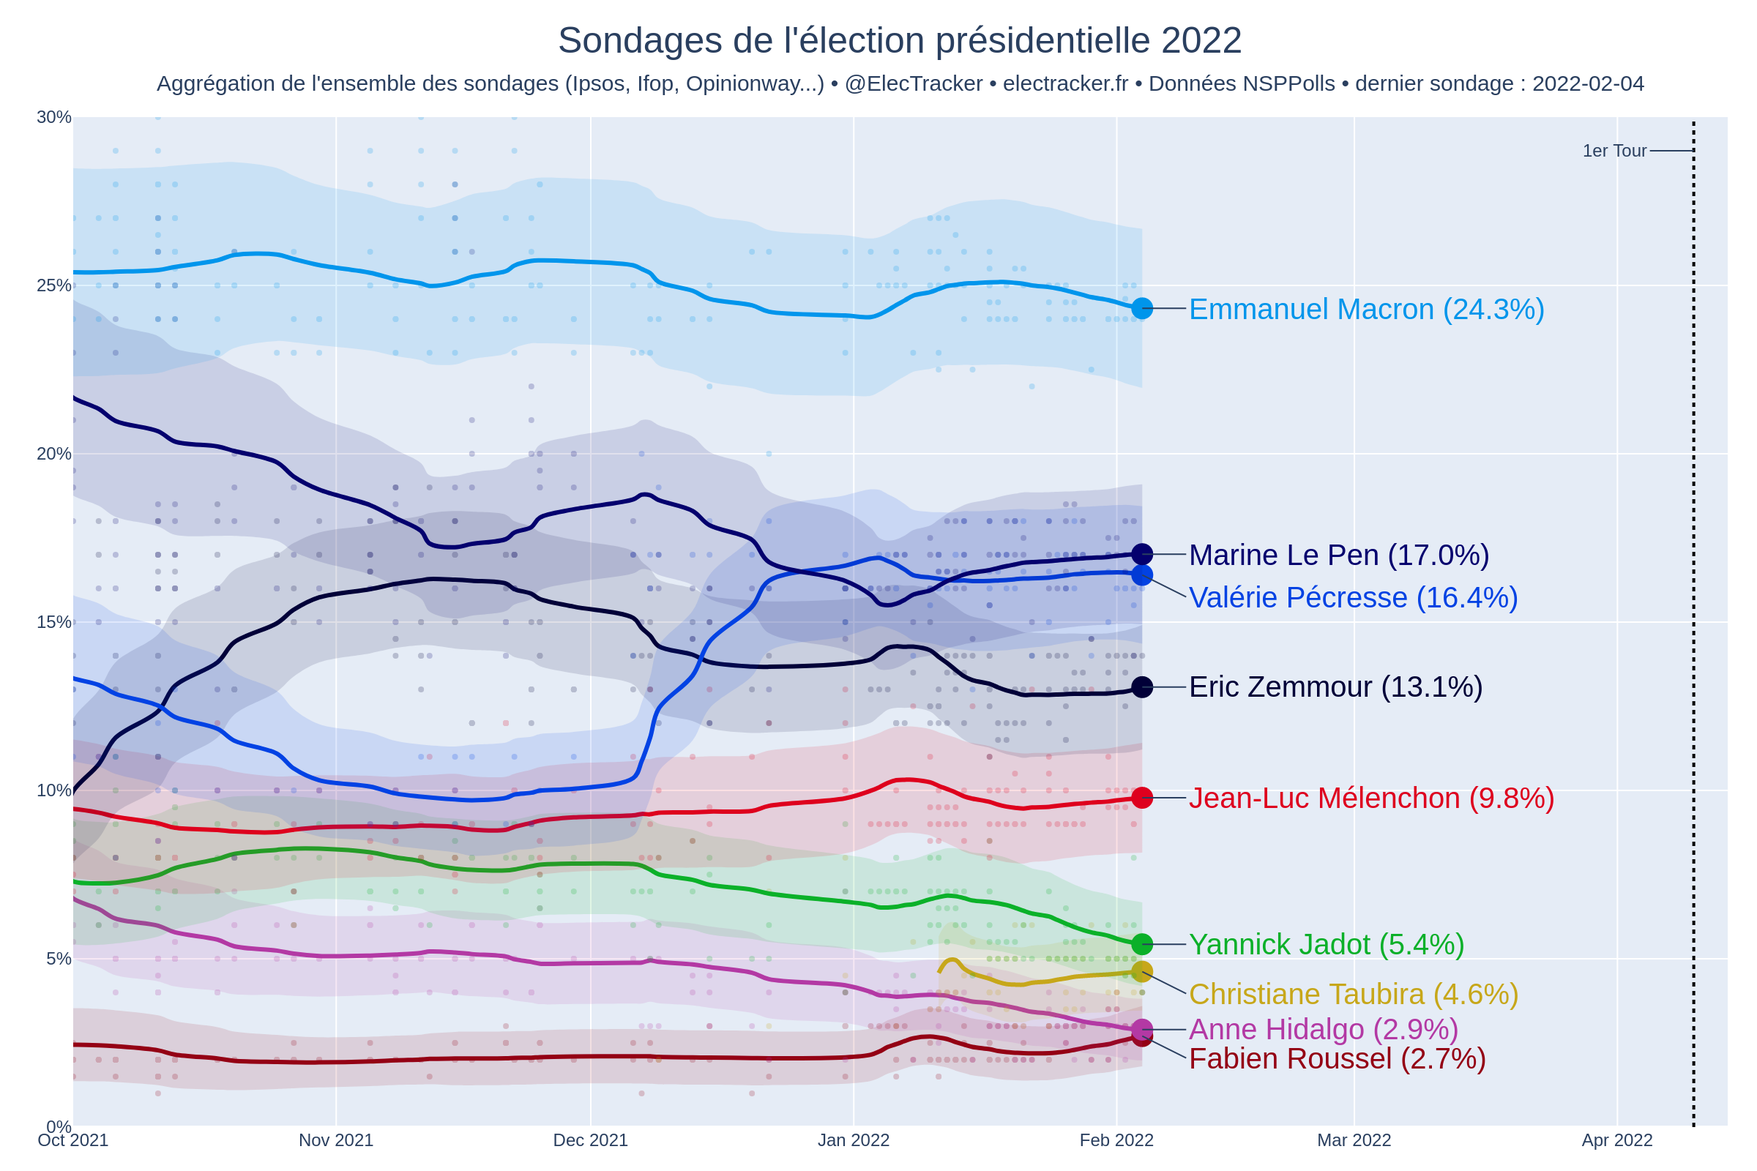
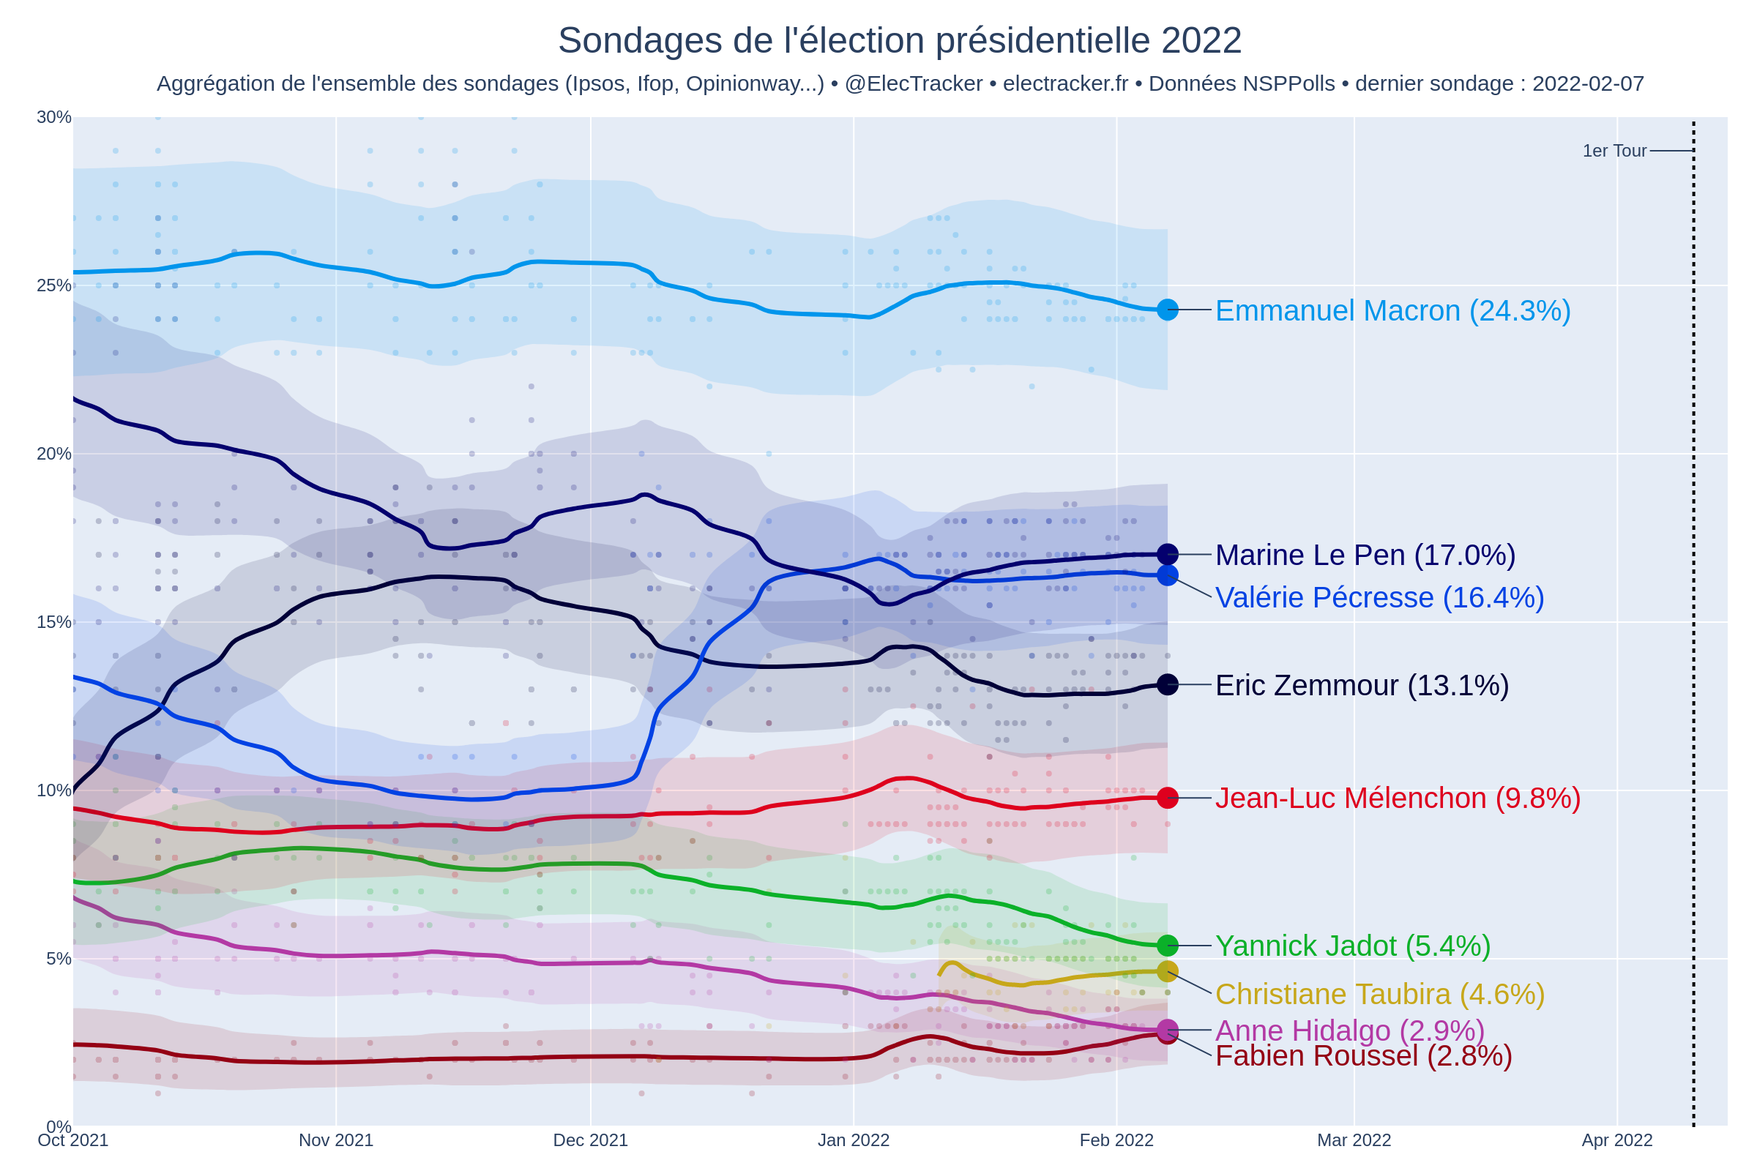
Apply automatic changes

diff --git a/html/derniers_sondages.html b/html/derniers_sondages.html
@@ -1,1 +1,1 @@
-<h3>Fabien Roussel • 2.7%</h3> 4.0% • (intervalle : 3.0% - 5.0%) • Opinion Way Les Echos, Radio Classique, Kea Partners • Du 2022-02-01 au 2022-02-04<br> 3.0% • (intervalle : 1.9% - 4.1%) • Opinion Way CNews • Du 2022-02-02 au 2022-02-03<br> 3.0% • (intervalle : 2.1% - 3.9%) • Opinion Way Les Echos, Radio Classique, Kea Partners • Du 2022-01-31 au 2022-02-03<br> 3.0% • (intervalle : 1.8% - 4.2%) • Ipsos franceinfo, Le Parisien • Du 2022-02-01 au 2022-02-03<br> 3.0% • (intervalle : 2.0% - 4.0%) • Ifop Paris Match, LCI, Sud Radio • Du 2022-01-31 au 2022-02-03<br> 3.0% • (intervalle : 2.1% - 3.9%) • Opinion Way Les Echos, Radio Classique, Kea Partners • Du 2022-01-30 au 2022-02-02<br> 3.0% • (intervalle : 1.9% - 4.1%) • Ifop Paris Match, LCI, Sud Radio • Du 2022-01-31 au 2022-02-02<br> 2.5% • (intervalle : 1.5% - 3.5%) • Elabe L'Express, SFR, BFM TV • Du 2022-01-31 au 2022-02-02<br> 3.5% • (intervalle : 2.4% - 4.6%) • Ifop Paris Match, LCI, Sud Radio • Du 2022-01-29 au 2022-02-01<br> 4.0% • (intervalle : 3.0% - 5.0%) • Opinion Way Les Echos, Radio Classique, Kea Partners • Du 2022-01-29 au 2022-02-01<br><br><h3>Anne Hidalgo • 2.9%</h3> 3.0% • (intervalle : 2.1% - 3.9%) • Opinion Way Les Echos, Radio Classique, Kea Partners • Du 2022-02-01 au 2022-02-04<br> 3.0% • (intervalle : 1.9% - 4.1%) • Opinion Way CNews • Du 2022-02-02 au 2022-02-03<br> 3.0% • (intervalle : 2.1% - 3.9%) • Opinion Way Les Echos, Radio Classique, Kea Partners • Du 2022-01-31 au 2022-02-03<br> 3.0% • (intervalle : 1.8% - 4.2%) • Ipsos franceinfo, Le Parisien • Du 2022-02-01 au 2022-02-03<br> 3.0% • (intervalle : 2.0% - 4.0%) • Ifop Paris Match, LCI, Sud Radio • Du 2022-01-31 au 2022-02-03<br> 3.0% • (intervalle : 2.1% - 3.9%) • Opinion Way Les Echos, Radio Classique, Kea Partners • Du 2022-01-30 au 2022-02-02<br> 3.0% • (intervalle : 1.9% - 4.1%) • Ifop Paris Match, LCI, Sud Radio • Du 2022-01-31 au 2022-02-02<br> 2.0% • (intervalle : 1.1% - 2.9%) • Elabe L'Express, SFR, BFM TV • Du 2022-01-31 au 2022-02-02<br> 3.5% • (intervalle : 2.4% - 4.6%) • Ifop Paris Match, LCI, Sud Radio • Du 2022-01-29 au 2022-02-01<br> 3.0% • (intervalle : 2.1% - 3.9%) • Opinion Way Les Echos, Radio Classique, Kea Partners • Du 2022-01-29 au 2022-02-01<br><br><h3>Christiane Taubira • 4.6%</h3> 4.0% • (intervalle : 3.0% - 5.0%) • Opinion Way Les Echos, Radio Classique, Kea Partners • Du 2022-02-01 au 2022-02-04<br> 5.0% • (intervalle : 3.5% - 6.5%) • Opinion Way CNews • Du 2022-02-02 au 2022-02-03<br> 4.0% • (intervalle : 2.6% - 5.4%) • Ipsos franceinfo, Le Parisien • Du 2022-02-01 au 2022-02-03<br> 4.0% • (intervalle : 3.0% - 5.0%) • Opinion Way Les Echos, Radio Classique, Kea Partners • Du 2022-01-31 au 2022-02-03<br> 4.5% • (intervalle : 3.2% - 5.8%) • Ifop Paris Match, LCI, Sud Radio • Du 2022-01-31 au 2022-02-03<br> 4.5% • (intervalle : 3.2% - 5.8%) • Ifop Paris Match, LCI, Sud Radio • Du 2022-01-31 au 2022-02-02<br> 5.0% • (intervalle : 3.9% - 6.1%) • Opinion Way Les Echos, Radio Classique, Kea Partners • Du 2022-01-30 au 2022-02-02<br> 6.0% • (intervalle : 4.5% - 7.5%) • Elabe L'Express, SFR, BFM TV • Du 2022-01-31 au 2022-02-02<br> 4.0% • (intervalle : 2.8% - 5.2%) • Ifop Paris Match, LCI, Sud Radio • Du 2022-01-29 au 2022-02-01<br> 5.0% • (intervalle : 3.9% - 6.1%) • Opinion Way Les Echos, Radio Classique, Kea Partners • Du 2022-01-29 au 2022-02-01<br><br><h3>Yannick Jadot • 5.4%</h3> 4.0% • (intervalle : 3.0% - 5.0%) • Opinion Way Les Echos, Radio Classique, Kea Partners • Du 2022-02-01 au 2022-02-04<br> 6.0% • (intervalle : 4.4% - 7.6%) • Opinion Way CNews • Du 2022-02-02 au 2022-02-03<br> 4.5% • (intervalle : 3.2% - 5.8%) • Ifop Paris Match, LCI, Sud Radio • Du 2022-01-31 au 2022-02-03<br> 5.0% • (intervalle : 3.9% - 6.1%) • Opinion Way Les Echos, Radio Classique, Kea Partners • Du 2022-01-31 au 2022-02-03<br> 8.0% • (intervalle : 6.1% - 9.9%) • Ipsos franceinfo, Le Parisien • Du 2022-02-01 au 2022-02-03<br> 5.0% • (intervalle : 3.6% - 6.4%) • Ifop Paris Match, LCI, Sud Radio • Du 2022-01-31 au 2022-02-02<br> 5.0% • (intervalle : 3.9% - 6.1%) • Opinion Way Les Echos, Radio Classique, Kea Partners • Du 2022-01-30 au 2022-02-02<br> 4.5% • (intervalle : 3.2% - 5.8%) • Elabe L'Express, SFR, BFM TV • Du 2022-01-31 au 2022-02-02<br> 5.0% • (intervalle : 3.6% - 6.4%) • Ifop Paris Match, LCI, Sud Radio • Du 2022-01-29 au 2022-02-01<br> 5.0% • (intervalle : 3.9% - 6.1%) • Opinion Way Les Echos, Radio Classique, Kea Partners • Du 2022-01-29 au 2022-02-01<br><br><h3>Jean-Luc Mélenchon • 9.8%</h3> 10.0% • (intervalle : 8.4% - 11.6%) • Opinion Way Les Echos, Radio Classique, Kea Partners • Du 2022-02-01 au 2022-02-04<br> 9.0% • (intervalle : 7.1% - 10.9%) • Opinion Way CNews • Du 2022-02-02 au 2022-02-03<br> 10.0% • (intervalle : 8.2% - 11.8%) • Ifop Paris Match, LCI, Sud Radio • Du 2022-01-31 au 2022-02-03<br> 10.0% • (intervalle : 8.4% - 11.6%) • Opinion Way Les Echos, Radio Classique, Kea Partners • Du 2022-01-31 au 2022-02-03<br> 9.0% • (intervalle : 7.0% - 11.0%) • Ipsos franceinfo, Le Parisien • Du 2022-02-01 au 2022-02-03<br> 10.0% • (intervalle : 8.1% - 11.9%) • Ifop Paris Match, LCI, Sud Radio • Du 2022-01-31 au 2022-02-02<br> 9.5% • (intervalle : 7.7% - 11.3%) • Elabe L'Express, SFR, BFM TV • Du 2022-01-31 au 2022-02-02<br> 10.0% • (intervalle : 8.4% - 11.6%) • Opinion Way Les Echos, Radio Classique, Kea Partners • Du 2022-01-30 au 2022-02-02<br> 9.5% • (intervalle : 7.7% - 11.3%) • Ifop Paris Match, LCI, Sud Radio • Du 2022-01-29 au 2022-02-01<br> 10.0% • (intervalle : 8.4% - 11.6%) • Opinion Way Les Echos, Radio Classique, Kea Partners • Du 2022-01-29 au 2022-02-01<br><br><h3>Eric Zemmour • 13.1%</h3> 14.0% • (intervalle : 12.2% - 15.8%) • Opinion Way Les Echos, Radio Classique, Kea Partners • Du 2022-02-01 au 2022-02-04<br> 13.0% • (intervalle : 10.7% - 15.3%) • Opinion Way CNews • Du 2022-02-02 au 2022-02-03<br> 14.0% • (intervalle : 11.9% - 16.1%) • Ifop Paris Match, LCI, Sud Radio • Du 2022-01-31 au 2022-02-03<br> 14.0% • (intervalle : 11.6% - 16.4%) • Ipsos franceinfo, Le Parisien • Du 2022-02-01 au 2022-02-03<br> 14.0% • (intervalle : 12.2% - 15.8%) • Opinion Way Les Echos, Radio Classique, Kea Partners • Du 2022-01-31 au 2022-02-03<br> 14.0% • (intervalle : 12.2% - 15.8%) • Opinion Way Les Echos, Radio Classique, Kea Partners • Du 2022-01-30 au 2022-02-02<br> 13.5% • (intervalle : 11.4% - 15.6%) • Ifop Paris Match, LCI, Sud Radio • Du 2022-01-31 au 2022-02-02<br> 12.5% • (intervalle : 10.5% - 14.5%) • Elabe L'Express, SFR, BFM TV • Du 2022-01-31 au 2022-02-02<br> 14.0% • (intervalle : 12.2% - 15.8%) • Opinion Way Les Echos, Radio Classique, Kea Partners • Du 2022-01-29 au 2022-02-01<br> 14.0% • (intervalle : 11.8% - 16.2%) • Ifop Paris Match, LCI, Sud Radio • Du 2022-01-29 au 2022-02-01<br><br><h3>Valérie Pécresse • 16.4%</h3> 16.0% • (intervalle : 14.1% - 17.9%) • Opinion Way Les Echos, Radio Classique, Kea Partners • Du 2022-02-01 au 2022-02-04<br> 17.0% • (intervalle : 14.5% - 19.5%) • Opinion Way CNews • Du 2022-02-02 au 2022-02-03<br> 16.5% • (intervalle : 13.9% - 19.1%) • Ipsos franceinfo, Le Parisien • Du 2022-02-01 au 2022-02-03<br> 16.0% • (intervalle : 14.1% - 17.9%) • Opinion Way Les Echos, Radio Classique, Kea Partners • Du 2022-01-31 au 2022-02-03<br> 15.5% • (intervalle : 13.3% - 17.7%) • Ifop Paris Match, LCI, Sud Radio • Du 2022-01-31 au 2022-02-03<br> 16.0% • (intervalle : 14.1% - 17.9%) • Opinion Way Les Echos, Radio Classique, Kea Partners • Du 2022-01-30 au 2022-02-02<br> 16.0% • (intervalle : 13.7% - 18.3%) • Ifop Paris Match, LCI, Sud Radio • Du 2022-01-31 au 2022-02-02<br> 16.0% • (intervalle : 13.7% - 18.3%) • Elabe L'Express, SFR, BFM TV • Du 2022-01-31 au 2022-02-02<br> 16.0% • (intervalle : 13.7% - 18.3%) • Ifop Paris Match, LCI, Sud Radio • Du 2022-01-29 au 2022-02-01<br> 16.0% • (intervalle : 14.1% - 17.9%) • Opinion Way Les Echos, Radio Classique, Kea Partners • Du 2022-01-29 au 2022-02-01<br><br><h3>Marine Le Pen • 17.0%</h3> 17.0% • (intervalle : 15.1% - 18.9%) • Opinion Way Les Echos, Radio Classique, Kea Partners • Du 2022-02-01 au 2022-02-04<br> 17.0% • (intervalle : 15.0% - 19.0%) • Opinion Way Les Echos, Radio Classique, Kea Partners • Du 2022-01-31 au 2022-02-03<br> 14.0% • (intervalle : 11.6% - 16.4%) • Ipsos franceinfo, Le Parisien • Du 2022-02-01 au 2022-02-03<br> 18.0% • (intervalle : 15.4% - 20.6%) • Opinion Way CNews • Du 2022-02-02 au 2022-02-03<br> 18.0% • (intervalle : 15.6% - 20.4%) • Ifop Paris Match, LCI, Sud Radio • Du 2022-01-31 au 2022-02-03<br> 18.0% • (intervalle : 15.6% - 20.4%) • Ifop Paris Match, LCI, Sud Radio • Du 2022-01-31 au 2022-02-02<br> 17.0% • (intervalle : 15.1% - 18.9%) • Opinion Way Les Echos, Radio Classique, Kea Partners • Du 2022-01-30 au 2022-02-02<br> 16.5% • (intervalle : 14.2% - 18.8%) • Elabe L'Express, SFR, BFM TV • Du 2022-01-31 au 2022-02-02<br> 17.0% • (intervalle : 15.1% - 18.9%) • Opinion Way Les Echos, Radio Classique, Kea Partners • Du 2022-01-29 au 2022-02-01<br> 17.5% • (intervalle : 15.1% - 19.9%) • Ifop Paris Match, LCI, Sud Radio • Du 2022-01-29 au 2022-02-01<br><br><h3>Emmanuel Macron • 24.3%</h3> 24.0% • (intervalle : 21.8% - 26.2%) • Opinion Way Les Echos, Radio Classique, Kea Partners • Du 2022-02-01 au 2022-02-04<br> 24.0% • (intervalle : 21.0% - 27.0%) • Ipsos franceinfo, Le Parisien • Du 2022-02-01 au 2022-02-03<br> 24.0% • (intervalle : 21.1% - 26.9%) • Opinion Way CNews • Du 2022-02-02 au 2022-02-03<br> 24.0% • (intervalle : 21.8% - 26.2%) • Opinion Way Les Echos, Radio Classique, Kea Partners • Du 2022-01-31 au 2022-02-03<br> 25.0% • (intervalle : 22.3% - 27.7%) • Ifop Paris Match, LCI, Sud Radio • Du 2022-01-31 au 2022-02-03<br> 24.6% • (intervalle : 21.9% - 27.3%) • Ifop Paris Match, LCI, Sud Radio • Du 2022-01-31 au 2022-02-02<br> 24.0% • (intervalle : 21.8% - 26.2%) • Opinion Way Les Echos, Radio Classique, Kea Partners • Du 2022-01-30 au 2022-02-02<br> 25.0% • (intervalle : 22.3% - 27.7%) • Elabe L'Express, SFR, BFM TV • Du 2022-01-31 au 2022-02-02<br> 24.0% • (intervalle : 21.3% - 26.7%) • Ifop Paris Match, LCI, Sud Radio • Du 2022-01-29 au 2022-02-01<br> 24.0% • (intervalle : 21.8% - 26.2%) • Opinion Way Les Echos, Radio Classique, Kea Partners • Du 2022-01-29 au 2022-02-01<br><br>
+<h3>Fabien Roussel • 2.8%</h3> 4.0% • (intervalle : 3.0% - 5.0%) • Opinion Way Les Echos, Radio Classique, Kea Partners • Du 2022-02-04 au 2022-02-07<br> 4.0% • (intervalle : 3.0% - 5.0%) • Opinion Way Les Echos, Radio Classique, Kea Partners • Du 2022-02-01 au 2022-02-04<br> 3.0% • (intervalle : 2.0% - 4.0%) • Ifop Paris Match, LCI, Sud Radio • Du 2022-01-31 au 2022-02-03<br> 3.0% • (intervalle : 2.1% - 3.9%) • Opinion Way Les Echos, Radio Classique, Kea Partners • Du 2022-01-31 au 2022-02-03<br> 3.0% • (intervalle : 1.9% - 4.1%) • Opinion Way CNews • Du 2022-02-02 au 2022-02-03<br> 3.0% • (intervalle : 1.8% - 4.2%) • Ipsos franceinfo, Le Parisien • Du 2022-02-01 au 2022-02-03<br> 2.5% • (intervalle : 1.5% - 3.5%) • Elabe L'Express, SFR, BFM TV • Du 2022-01-31 au 2022-02-02<br> 3.0% • (intervalle : 1.9% - 4.1%) • Ifop Paris Match, LCI, Sud Radio • Du 2022-01-31 au 2022-02-02<br> 3.0% • (intervalle : 2.1% - 3.9%) • Opinion Way Les Echos, Radio Classique, Kea Partners • Du 2022-01-30 au 2022-02-02<br> 3.5% • (intervalle : 2.4% - 4.6%) • Ifop Paris Match, LCI, Sud Radio • Du 2022-01-29 au 2022-02-01<br><br><h3>Anne Hidalgo • 2.9%</h3> 3.0% • (intervalle : 2.1% - 3.9%) • Opinion Way Les Echos, Radio Classique, Kea Partners • Du 2022-02-04 au 2022-02-07<br> 3.0% • (intervalle : 2.1% - 3.9%) • Opinion Way Les Echos, Radio Classique, Kea Partners • Du 2022-02-01 au 2022-02-04<br> 3.0% • (intervalle : 2.0% - 4.0%) • Ifop Paris Match, LCI, Sud Radio • Du 2022-01-31 au 2022-02-03<br> 3.0% • (intervalle : 2.1% - 3.9%) • Opinion Way Les Echos, Radio Classique, Kea Partners • Du 2022-01-31 au 2022-02-03<br> 3.0% • (intervalle : 1.8% - 4.2%) • Ipsos franceinfo, Le Parisien • Du 2022-02-01 au 2022-02-03<br> 3.0% • (intervalle : 1.9% - 4.1%) • Opinion Way CNews • Du 2022-02-02 au 2022-02-03<br> 2.0% • (intervalle : 1.1% - 2.9%) • Elabe L'Express, SFR, BFM TV • Du 2022-01-31 au 2022-02-02<br> 3.0% • (intervalle : 2.1% - 3.9%) • Opinion Way Les Echos, Radio Classique, Kea Partners • Du 2022-01-30 au 2022-02-02<br> 3.0% • (intervalle : 1.9% - 4.1%) • Ifop Paris Match, LCI, Sud Radio • Du 2022-01-31 au 2022-02-02<br> 3.5% • (intervalle : 2.4% - 4.6%) • Ifop Paris Match, LCI, Sud Radio • Du 2022-01-29 au 2022-02-01<br><br><h3>Christiane Taubira • 4.6%</h3> 4.0% • (intervalle : 3.0% - 5.0%) • Opinion Way Les Echos, Radio Classique, Kea Partners • Du 2022-02-04 au 2022-02-07<br> 4.0% • (intervalle : 3.0% - 5.0%) • Opinion Way Les Echos, Radio Classique, Kea Partners • Du 2022-02-01 au 2022-02-04<br> 4.5% • (intervalle : 3.2% - 5.8%) • Ifop Paris Match, LCI, Sud Radio • Du 2022-01-31 au 2022-02-03<br> 4.0% • (intervalle : 3.0% - 5.0%) • Opinion Way Les Echos, Radio Classique, Kea Partners • Du 2022-01-31 au 2022-02-03<br> 5.0% • (intervalle : 3.5% - 6.5%) • Opinion Way CNews • Du 2022-02-02 au 2022-02-03<br> 4.0% • (intervalle : 2.6% - 5.4%) • Ipsos franceinfo, Le Parisien • Du 2022-02-01 au 2022-02-03<br> 5.0% • (intervalle : 3.9% - 6.1%) • Opinion Way Les Echos, Radio Classique, Kea Partners • Du 2022-01-30 au 2022-02-02<br> 4.5% • (intervalle : 3.2% - 5.8%) • Ifop Paris Match, LCI, Sud Radio • Du 2022-01-31 au 2022-02-02<br> 6.0% • (intervalle : 4.5% - 7.5%) • Elabe L'Express, SFR, BFM TV • Du 2022-01-31 au 2022-02-02<br> 4.0% • (intervalle : 2.8% - 5.2%) • Ifop Paris Match, LCI, Sud Radio • Du 2022-01-29 au 2022-02-01<br><br><h3>Yannick Jadot • 5.4%</h3> 4.0% • (intervalle : 3.0% - 5.0%) • Opinion Way Les Echos, Radio Classique, Kea Partners • Du 2022-02-04 au 2022-02-07<br> 4.0% • (intervalle : 3.0% - 5.0%) • Opinion Way Les Echos, Radio Classique, Kea Partners • Du 2022-02-01 au 2022-02-04<br> 4.5% • (intervalle : 3.2% - 5.8%) • Ifop Paris Match, LCI, Sud Radio • Du 2022-01-31 au 2022-02-03<br> 5.0% • (intervalle : 3.9% - 6.1%) • Opinion Way Les Echos, Radio Classique, Kea Partners • Du 2022-01-31 au 2022-02-03<br> 6.0% • (intervalle : 4.4% - 7.6%) • Opinion Way CNews • Du 2022-02-02 au 2022-02-03<br> 8.0% • (intervalle : 6.1% - 9.9%) • Ipsos franceinfo, Le Parisien • Du 2022-02-01 au 2022-02-03<br> 5.0% • (intervalle : 3.9% - 6.1%) • Opinion Way Les Echos, Radio Classique, Kea Partners • Du 2022-01-30 au 2022-02-02<br> 5.0% • (intervalle : 3.6% - 6.4%) • Ifop Paris Match, LCI, Sud Radio • Du 2022-01-31 au 2022-02-02<br> 4.5% • (intervalle : 3.2% - 5.8%) • Elabe L'Express, SFR, BFM TV • Du 2022-01-31 au 2022-02-02<br> 5.0% • (intervalle : 3.6% - 6.4%) • Ifop Paris Match, LCI, Sud Radio • Du 2022-01-29 au 2022-02-01<br><br><h3>Jean-Luc Mélenchon • 9.8%</h3> 9.0% • (intervalle : 7.5% - 10.5%) • Opinion Way Les Echos, Radio Classique, Kea Partners • Du 2022-02-04 au 2022-02-07<br> 10.0% • (intervalle : 8.4% - 11.6%) • Opinion Way Les Echos, Radio Classique, Kea Partners • Du 2022-02-01 au 2022-02-04<br> 10.0% • (intervalle : 8.2% - 11.8%) • Ifop Paris Match, LCI, Sud Radio • Du 2022-01-31 au 2022-02-03<br> 10.0% • (intervalle : 8.4% - 11.6%) • Opinion Way Les Echos, Radio Classique, Kea Partners • Du 2022-01-31 au 2022-02-03<br> 9.0% • (intervalle : 7.0% - 11.0%) • Ipsos franceinfo, Le Parisien • Du 2022-02-01 au 2022-02-03<br> 9.0% • (intervalle : 7.1% - 10.9%) • Opinion Way CNews • Du 2022-02-02 au 2022-02-03<br> 10.0% • (intervalle : 8.4% - 11.6%) • Opinion Way Les Echos, Radio Classique, Kea Partners • Du 2022-01-30 au 2022-02-02<br> 10.0% • (intervalle : 8.1% - 11.9%) • Ifop Paris Match, LCI, Sud Radio • Du 2022-01-31 au 2022-02-02<br> 9.5% • (intervalle : 7.7% - 11.3%) • Elabe L'Express, SFR, BFM TV • Du 2022-01-31 au 2022-02-02<br> 9.5% • (intervalle : 7.7% - 11.3%) • Ifop Paris Match, LCI, Sud Radio • Du 2022-01-29 au 2022-02-01<br><br><h3>Eric Zemmour • 13.1%</h3> 14.0% • (intervalle : 12.2% - 15.8%) • Opinion Way Les Echos, Radio Classique, Kea Partners • Du 2022-02-04 au 2022-02-07<br> 14.0% • (intervalle : 12.2% - 15.8%) • Opinion Way Les Echos, Radio Classique, Kea Partners • Du 2022-02-01 au 2022-02-04<br> 14.0% • (intervalle : 11.9% - 16.1%) • Ifop Paris Match, LCI, Sud Radio • Du 2022-01-31 au 2022-02-03<br> 14.0% • (intervalle : 12.2% - 15.8%) • Opinion Way Les Echos, Radio Classique, Kea Partners • Du 2022-01-31 au 2022-02-03<br> 14.0% • (intervalle : 11.6% - 16.4%) • Ipsos franceinfo, Le Parisien • Du 2022-02-01 au 2022-02-03<br> 13.0% • (intervalle : 10.7% - 15.3%) • Opinion Way CNews • Du 2022-02-02 au 2022-02-03<br> 13.5% • (intervalle : 11.4% - 15.6%) • Ifop Paris Match, LCI, Sud Radio • Du 2022-01-31 au 2022-02-02<br> 12.5% • (intervalle : 10.5% - 14.5%) • Elabe L'Express, SFR, BFM TV • Du 2022-01-31 au 2022-02-02<br> 14.0% • (intervalle : 12.2% - 15.8%) • Opinion Way Les Echos, Radio Classique, Kea Partners • Du 2022-01-30 au 2022-02-02<br> 14.0% • (intervalle : 11.8% - 16.2%) • Ifop Paris Match, LCI, Sud Radio • Du 2022-01-29 au 2022-02-01<br><br><h3>Valérie Pécresse • 16.4%</h3> 17.0% • (intervalle : 15.0% - 19.0%) • Opinion Way Les Echos, Radio Classique, Kea Partners • Du 2022-02-04 au 2022-02-07<br> 16.0% • (intervalle : 14.1% - 17.9%) • Opinion Way Les Echos, Radio Classique, Kea Partners • Du 2022-02-01 au 2022-02-04<br> 16.0% • (intervalle : 14.1% - 17.9%) • Opinion Way Les Echos, Radio Classique, Kea Partners • Du 2022-01-31 au 2022-02-03<br> 15.5% • (intervalle : 13.3% - 17.7%) • Ifop Paris Match, LCI, Sud Radio • Du 2022-01-31 au 2022-02-03<br> 17.0% • (intervalle : 14.5% - 19.5%) • Opinion Way CNews • Du 2022-02-02 au 2022-02-03<br> 16.5% • (intervalle : 13.9% - 19.1%) • Ipsos franceinfo, Le Parisien • Du 2022-02-01 au 2022-02-03<br> 16.0% • (intervalle : 14.1% - 17.9%) • Opinion Way Les Echos, Radio Classique, Kea Partners • Du 2022-01-30 au 2022-02-02<br> 16.0% • (intervalle : 13.7% - 18.3%) • Elabe L'Express, SFR, BFM TV • Du 2022-01-31 au 2022-02-02<br> 16.0% • (intervalle : 13.7% - 18.3%) • Ifop Paris Match, LCI, Sud Radio • Du 2022-01-31 au 2022-02-02<br> 16.0% • (intervalle : 13.7% - 18.3%) • Ifop Paris Match, LCI, Sud Radio • Du 2022-01-29 au 2022-02-01<br><br><h3>Marine Le Pen • 17.0%</h3> 17.0% • (intervalle : 15.0% - 19.0%) • Opinion Way Les Echos, Radio Classique, Kea Partners • Du 2022-02-04 au 2022-02-07<br> 17.0% • (intervalle : 15.1% - 18.9%) • Opinion Way Les Echos, Radio Classique, Kea Partners • Du 2022-02-01 au 2022-02-04<br> 17.0% • (intervalle : 15.0% - 19.0%) • Opinion Way Les Echos, Radio Classique, Kea Partners • Du 2022-01-31 au 2022-02-03<br> 18.0% • (intervalle : 15.6% - 20.4%) • Ifop Paris Match, LCI, Sud Radio • Du 2022-01-31 au 2022-02-03<br> 18.0% • (intervalle : 15.4% - 20.6%) • Opinion Way CNews • Du 2022-02-02 au 2022-02-03<br> 14.0% • (intervalle : 11.6% - 16.4%) • Ipsos franceinfo, Le Parisien • Du 2022-02-01 au 2022-02-03<br> 17.0% • (intervalle : 15.1% - 18.9%) • Opinion Way Les Echos, Radio Classique, Kea Partners • Du 2022-01-30 au 2022-02-02<br> 18.0% • (intervalle : 15.6% - 20.4%) • Ifop Paris Match, LCI, Sud Radio • Du 2022-01-31 au 2022-02-02<br> 16.5% • (intervalle : 14.2% - 18.8%) • Elabe L'Express, SFR, BFM TV • Du 2022-01-31 au 2022-02-02<br> 17.5% • (intervalle : 15.1% - 19.9%) • Ifop Paris Match, LCI, Sud Radio • Du 2022-01-29 au 2022-02-01<br><br><h3>Emmanuel Macron • 24.3%</h3> 24.0% • (intervalle : 21.8% - 26.2%) • Opinion Way Les Echos, Radio Classique, Kea Partners • Du 2022-02-04 au 2022-02-07<br> 24.0% • (intervalle : 21.8% - 26.2%) • Opinion Way Les Echos, Radio Classique, Kea Partners • Du 2022-02-01 au 2022-02-04<br> 25.0% • (intervalle : 22.3% - 27.7%) • Ifop Paris Match, LCI, Sud Radio • Du 2022-01-31 au 2022-02-03<br> 24.0% • (intervalle : 21.8% - 26.2%) • Opinion Way Les Echos, Radio Classique, Kea Partners • Du 2022-01-31 au 2022-02-03<br> 24.0% • (intervalle : 21.1% - 26.9%) • Opinion Way CNews • Du 2022-02-02 au 2022-02-03<br> 24.0% • (intervalle : 21.0% - 27.0%) • Ipsos franceinfo, Le Parisien • Du 2022-02-01 au 2022-02-03<br> 24.0% • (intervalle : 21.8% - 26.2%) • Opinion Way Les Echos, Radio Classique, Kea Partners • Du 2022-01-30 au 2022-02-02<br> 24.6% • (intervalle : 21.9% - 27.3%) • Ifop Paris Match, LCI, Sud Radio • Du 2022-01-31 au 2022-02-02<br> 25.0% • (intervalle : 22.3% - 27.7%) • Elabe L'Express, SFR, BFM TV • Du 2022-01-31 au 2022-02-02<br> 24.0% • (intervalle : 21.3% - 26.7%) • Ifop Paris Match, LCI, Sud Radio • Du 2022-01-29 au 2022-02-01<br><br>
